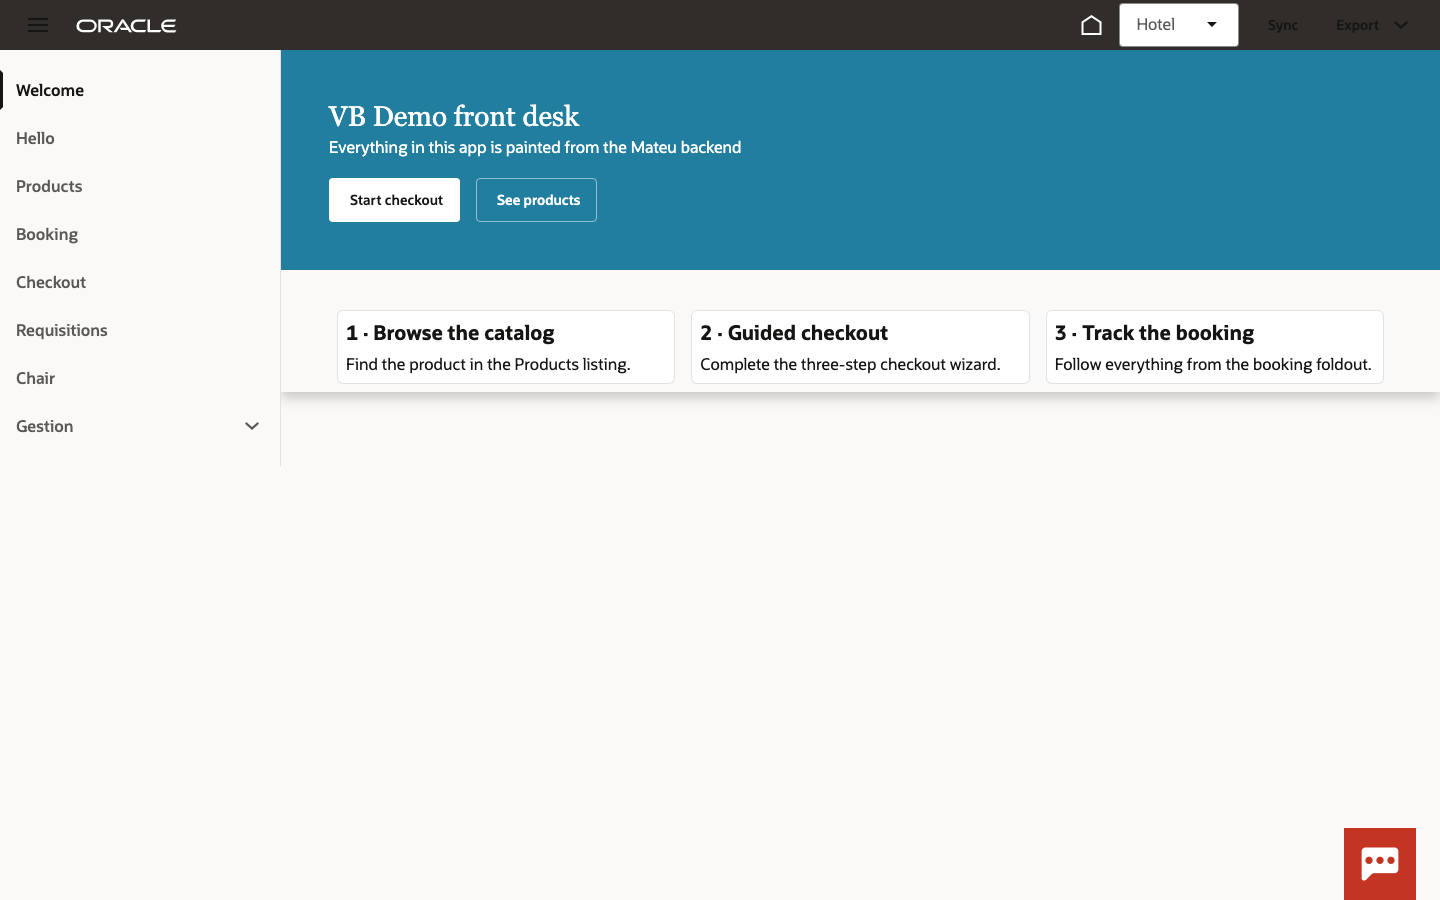
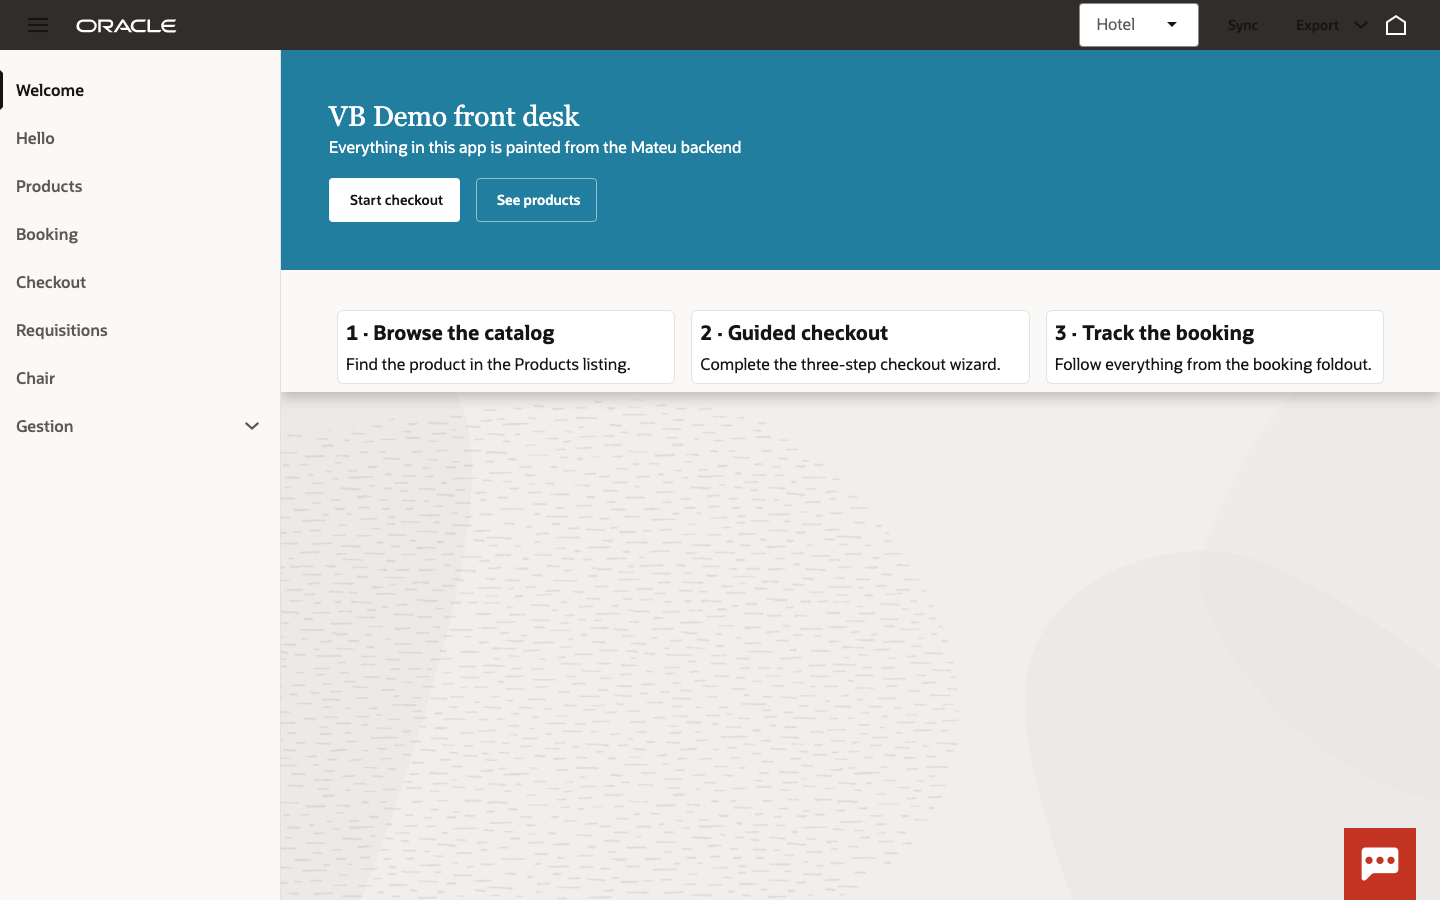
fix(vb): el navigator drawer llega hasta abajo en páginas cortas
oj-drawer-layout no crece por defecto (flex 0 1 auto → alto del contenido);
flex 1 1 auto inline dentro del pageContent flex column, como el min-width:0
de oj-vb-content.

diff --git a/.dev/vb/mateu-vb/webApps/vbredwoodapp/pages/shell-page.html b/.dev/vb/mateu-vb/webApps/vbredwoodapp/pages/shell-page.html
@@ -95,7 +95,7 @@
     <!-- Navigator PERSISTENTE (HAMBURGUER_MENU): oj-drawer-layout (reflow) DEBAJO del
          header — abierto de inicio, NO se oculta al navegar; la hamburguesa lo pliega
          y el contenido se desplaza -->
-    <oj-drawer-layout id="mateuNavDrawer"
+    <oj-drawer-layout style="flex: 1 1 auto" id="mateuNavDrawer"
       start-opened="[[ $application.variables.mateuNavDrawerOpen ]]"
       on-oj-before-close="[[ $listeners.navDrawerClosed ]]">
 

diff --git a/.dev/vb/DESIGN-NOTES.md b/.dev/vb/DESIGN-NOTES.md
@@ -510,7 +510,10 @@ la MISMA receta que pinta FA: inset 270px 0 0 0, ancladas abajo izda/dcha, z-ind
 (3) El icono Home que estampa `oj-sp-global-header` (sin API de posición) pasa a la derecha
 del todo con `order: 99` (comparte contenedor flex con el slot end). Colores medidos de las
 utility classes: oj-bg-neutral-0 #FFF · oj-bg-body/neutral-10 #FBF9F8 · neutral-20 #F5F4F2 ·
-neutral-30 #F1EFED.
+neutral-30 #F1EFED. **Navigator a toda altura**: `oj-drawer-layout` no crece solo
+(flex 0 1 auto → alto del contenido, el menú se cortaba en páginas cortas) — `style="flex: 1
+1 auto"` en el elemento (pageContent/oj-web-applayout-page ya es flex column de 100%), mismo
+mecanismo inline que el `min-width:0` de oj-vb-content.
 
 ## Arquetipos Welcome / General Overview / Item Overview — HECHOS (pendiente de verificación)
 
